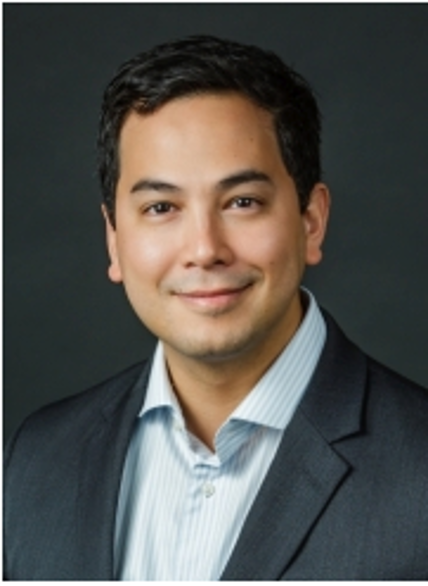
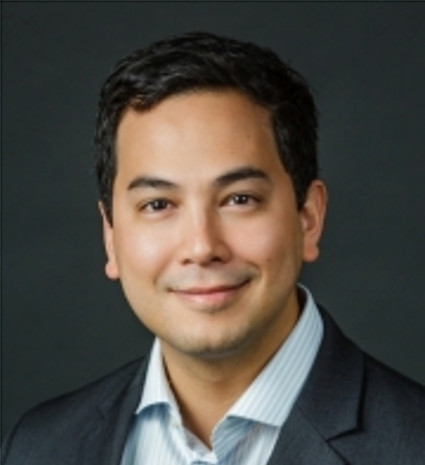
Updated team members

diff --git a/public/content/Team/AIBIL.js b/public/content/Team/AIBIL.js
@@ -1,37 +1,37 @@
 const AIBIL = [
     {
       name: 'Davatzikos, Christos',
-      image: '/images/Team/user_stock_photo.png',
+      image: '/images/Team/Christos_Davatzikos.jpeg',
       bio: 'Christos.Davatzikos@pennmedicine.upenn.edu',
     },
     {
       name: 'Erus, Guray',
-      image: '/images/Team/user_stock_photo.png',
+      image: '/images/Team/Guray_Erus.jpg',
       bio: 'Guray.Erus@pennmedicine.upenn.edu',
     },
     {
       name: 'Getka, Alexander',
-      image: '/images/Team/user_stock_photo.png',
+      image: '/images/Team/Alexander_Getka.jpg',
       bio: 'Alexander.Getka@Pennmedicine.upenn.edu',
     },
     {
       name: 'Aidinis, George ',
-      image: '/images/Team/user_stock_photo.png',
+      image: '/images/Team/Aidinis_George.jpg',
       bio: 'George.Aidinis@Pennmedicine.upenn.edu',
     },
     {
       name: 'Wu, Di',
-      image: '/images/Team/user_stock_photo.png',
+      image: '/images/Team/Di_Wu.jpeg',
       bio: 'Di.Wu@Pennmedicine.upenn.edu',
     },
     {
       name: 'Cui, Yuhan',
-      image: '/images/Team/user_stock_photo.png',
+      image: '/images/Team/Cui_Yuhan.jpg',
       bio: 'Yuhan.Cui@Pennmedicine.upenn.edu',
     },
     {
       name: 'Srinivasan, Dhivya',
-      image: '/images/Team/user_stock_photo.png',
+      image: '/images/Team/Dhivya_Srinivasan.jpg',
       bio: 'Dhivya.Srinivasan@Pennmedicine.upenn.edu',
     },
     {

diff --git a/public/content/Team/PLINC.js b/public/content/Team/PLINC.js
@@ -1,17 +1,17 @@
 const PLINC = [
     {
       name: 'Satterthwaite, Theodore',
-      image: '/images/Team/user_stock_photo.png',
+      image: '/images/Team/Theodore_Satterthwaite.jpg',
       bio: 'Theodore.Satterthwaite@Pennmedicine.upenn.edu',
     },
     {
       name: 'Cieslak, Matthew',
-      image: '/images/Team/user_stock_photo.png',
+      image: '/images/Team/Cieslak_Matthew.webp',
       bio: 'Matthew.Cieslak@Pennmedicine.upenn.edu',
     },
     {
       name: 'Salo, Taylor',
-      image: '/images/Team/user_stock_photo.png',
+      image: '/images/Team/Salo_Taylor.jpg',
       bio: 'Taylor.Salo@Pennmedicine.upenn.edu',
     },
   ];

diff --git a/styles/Team.module.css b/styles/Team.module.css
@@ -33,10 +33,10 @@
 }
 
 .member img {
-  max-width: 100%;
-  min-width: 10%;
-  height: auto;
-  border-radius: 50%;
+  width: 200px; /* Fixed width */
+  height: 200px; /* Fixed height to match width, ensuring a square */
+  object-fit: cover; /* This will cover the area without stretching the image */
+  border-radius: 50%; /* This will make the square a circle */
 }
 
 .member h3 {

diff --git a/public/content/Team/Radiology.js b/public/content/Team/Radiology.js
@@ -1,7 +1,7 @@
 const Radiology = [
     {
       name: 'Nasrallah, Ilya ',
-      image: '/images/Team/user_stock_photo.png',
+      image: '/images/Team/Ilya_Nasrallah.jpg',
       bio: 'Ilya.Nasrallah@pennmedicine.upenn.edu',
     },
 

diff --git a/public/content/Team/Psychiatry.js b/public/content/Team/Psychiatry.js
@@ -1,7 +1,7 @@
 const Psychiatry = [
     {
       name: 'Wolf, Daniel',
-      image: '/images/Team/user_stock_photo.png',
+      image: '/images/Team/Wolf_Daniel.jpg',
       bio: 'danwolf@pennmedicine.upenn.edu',
     },
   ];

diff --git a/public/content/Team/MLBD.js b/public/content/Team/MLBD.js
@@ -1,7 +1,7 @@
 const MLBD = [
   {
     name: 'Fan, Yong',
-    image: '/images/Team/user_stock_photo.png',
+    image: '/images/Team/Yong_Fan.jpg',
     bio: 'Yong.Fan@pennmedicine.upenn.edu',
   },
   {
